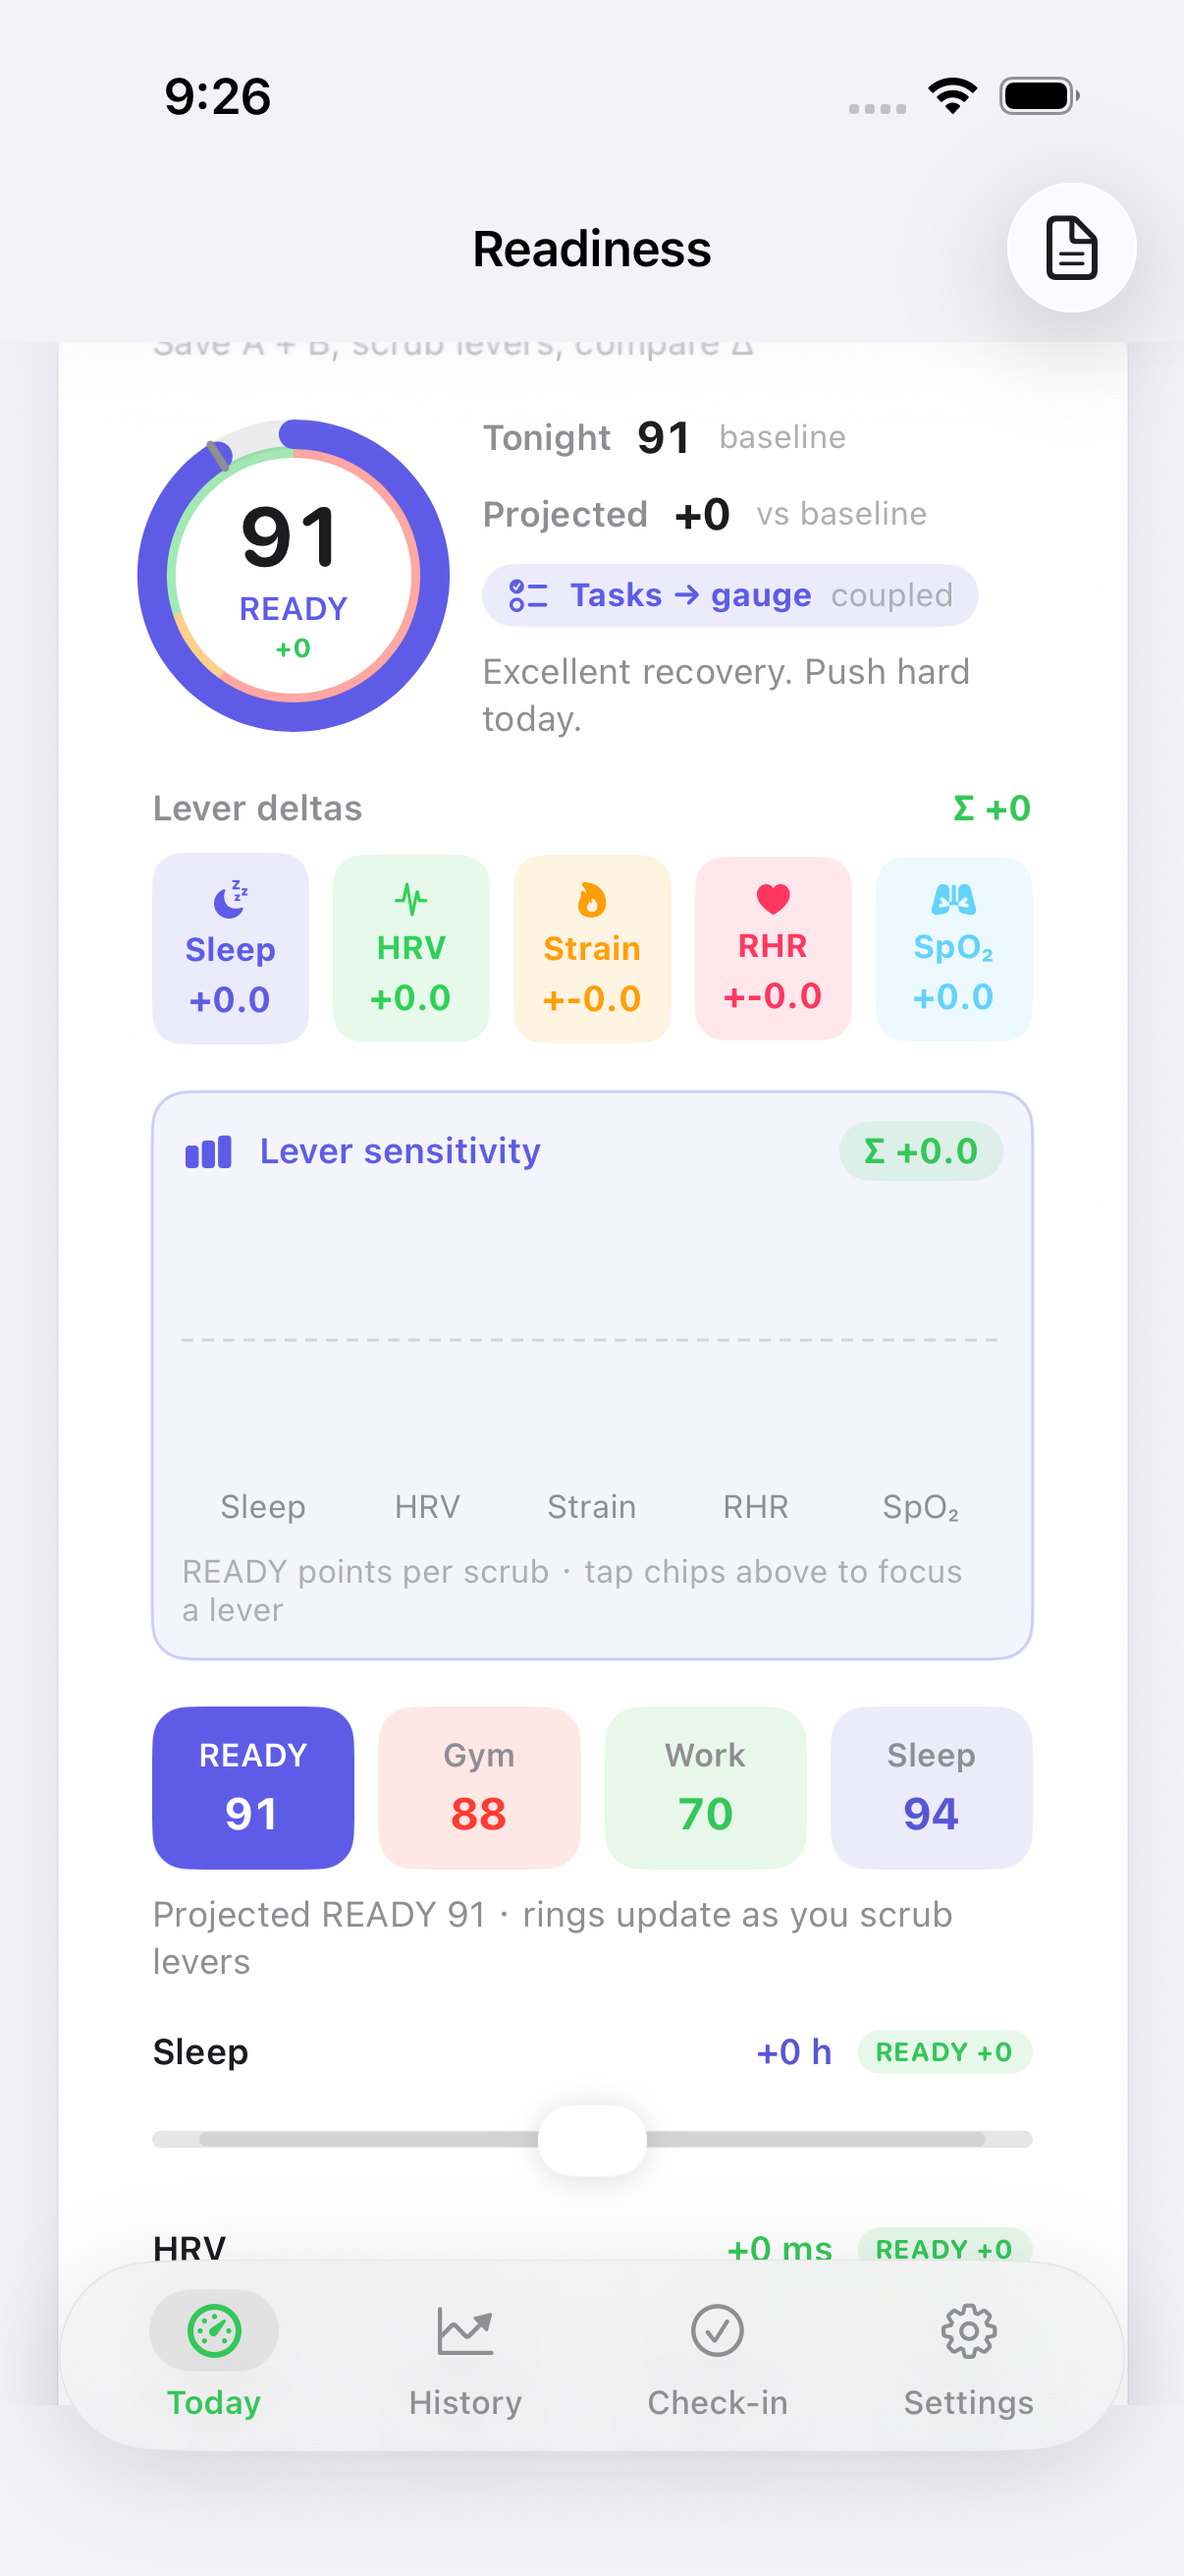
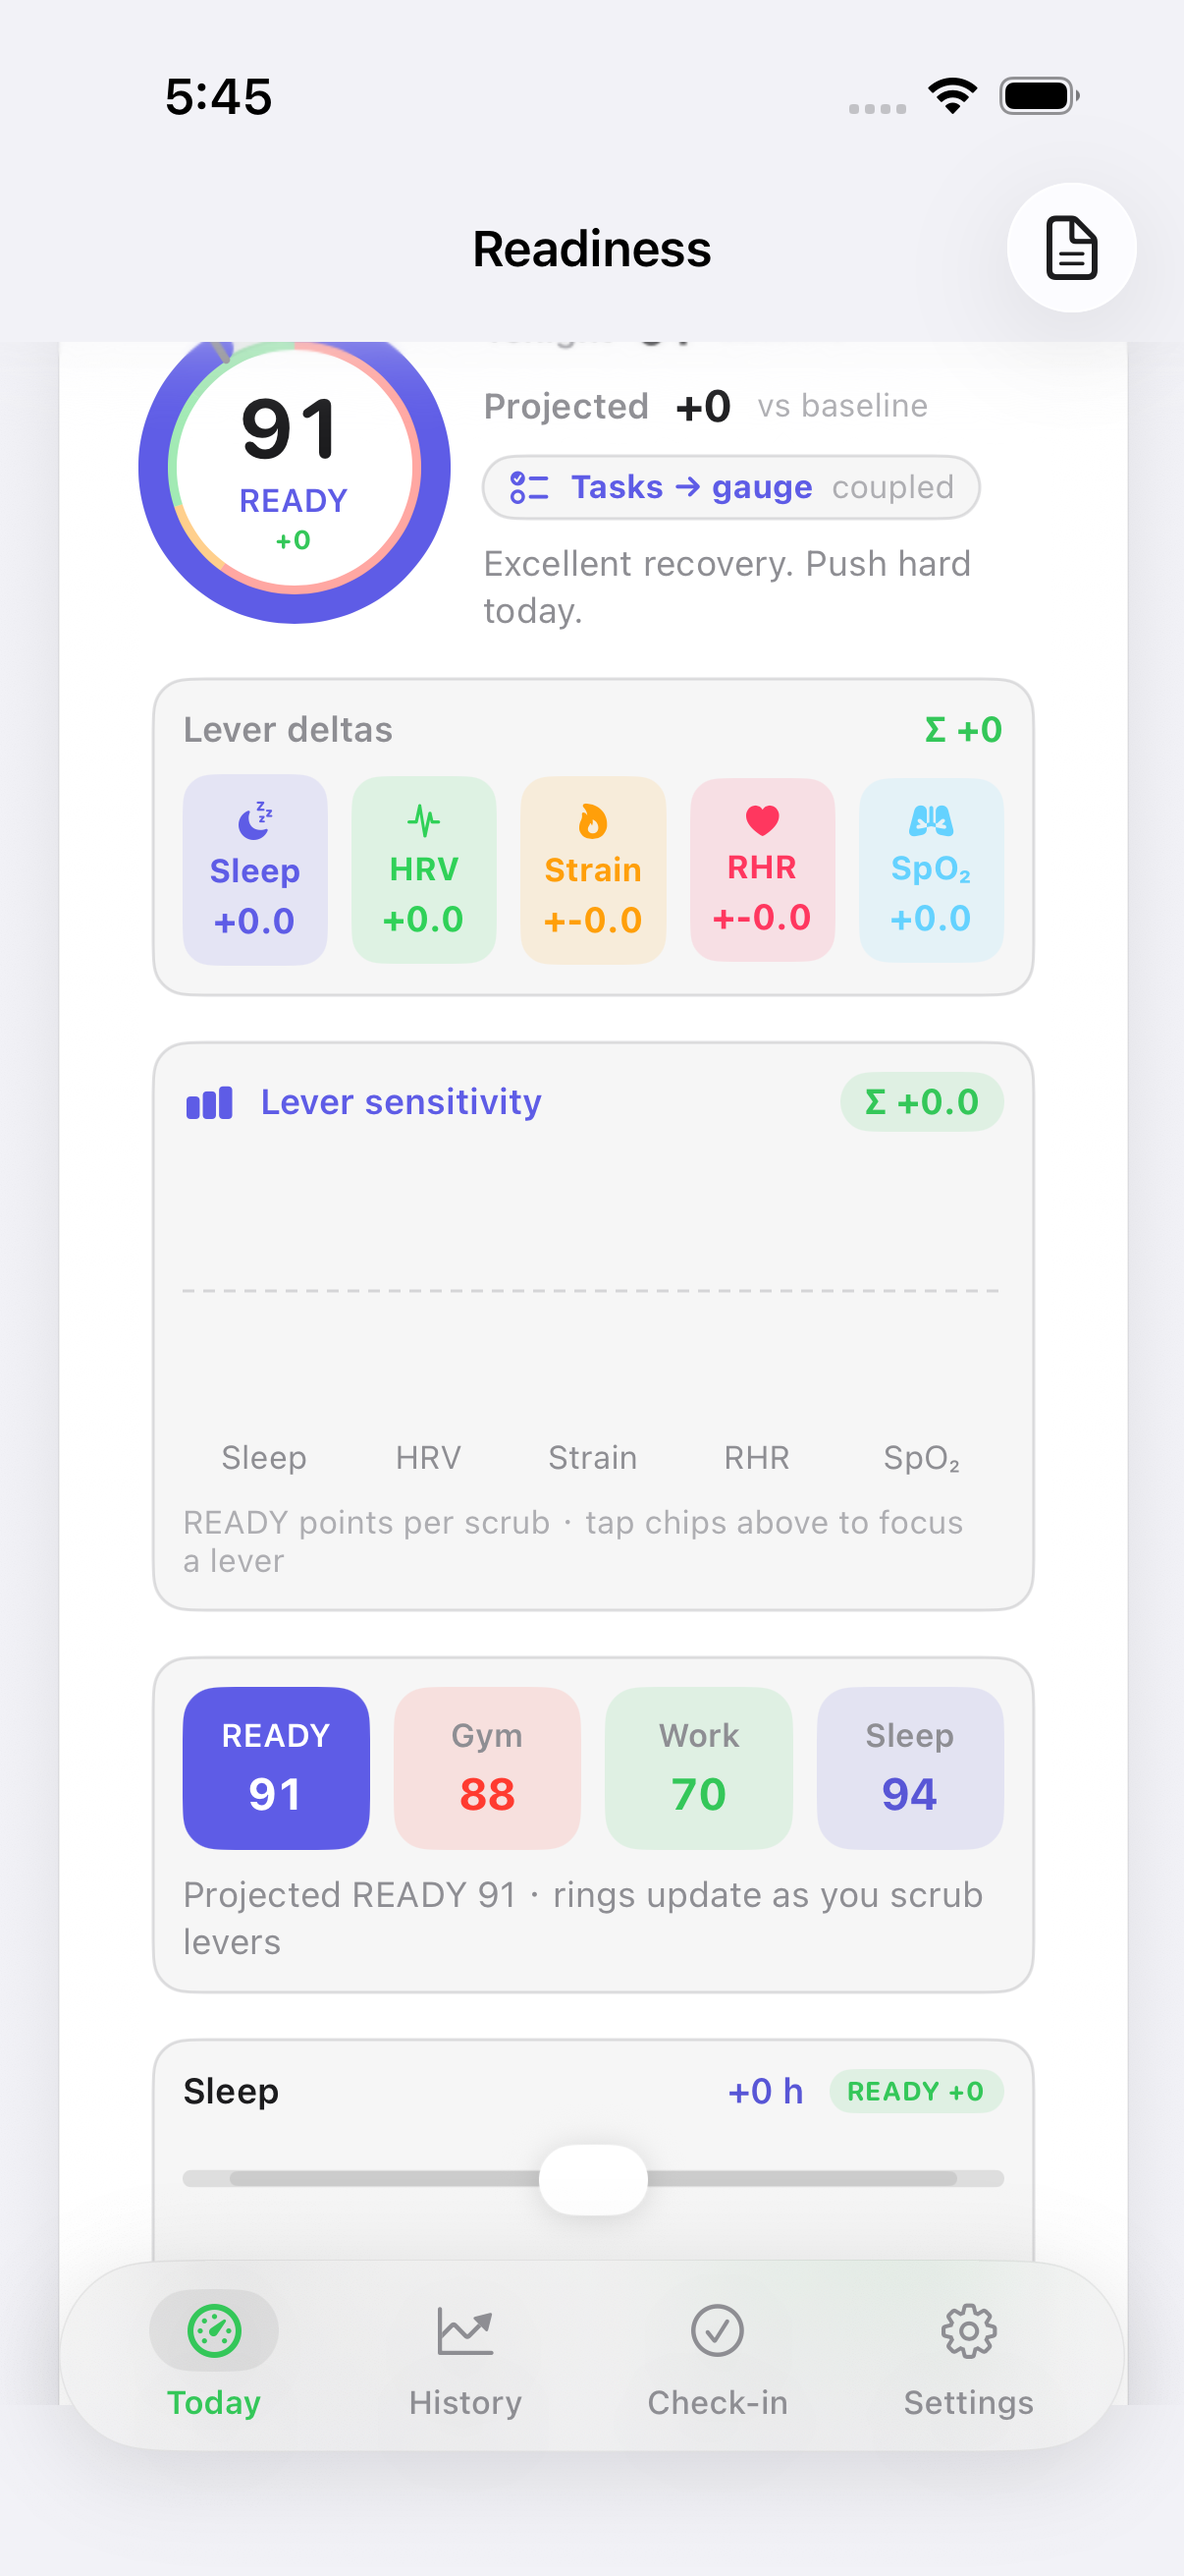
Honest #783: Simulator controls (WHOOP wells) (#813)
Chrome-only restyle of existing sim.load.controls.
Idle (all five levers at 0) ghost/hairline 8/28 secondaryText;
active negative (combined isolated READY Δ < 0) 14/28 strain;
active positive (combined isolated READY Δ > 0) 14/28 optimal;
active mixed (some nonzero levers whose isolated contributions cancel) 14/28 accent.
Slider internals, copy, tints, identifiers, interaction,
and accessibilityIdentifier unchanged.

UITest testReadinessLoadSimulatorSurface passed 778.470s, 0 failures
(observer 790.700s) on iPhone 17 Pro. Proof:
.audit/verify-simulator-controls.png

diff --git a/ReadinessTracker/Views/WhoopFeatures/ReadinessLoadSimulatorCard.swift b/ReadinessTracker/Views/WhoopFeatures/ReadinessLoadSimulatorCard.swift
@@ -986,9 +986,19 @@ struct ReadinessLoadSimulatorCard: View {
         .accessibilityLabel("Projected ring chips")
     }
 
-    /// Honest #718: WHOOP-parity bipolar sliders + live per-lever READY Δ (via `project()` vs all-zero).
+    /// Honest #718 / #783: WHOOP-parity bipolar sliders + live per-lever READY Δ (via `project()` vs all-zero; WHOOP wells; Google Health graphics).
     private var interactiveControls: some View {
-        VStack(spacing: 14) {
+        // Well tone follows combined lever READY Δ vs all-zero (same isolation as
+        // per-slider READY capsules). Idle = all five levers at 0. Mixed =
+        // some nonzero levers whose isolated contributions cancel (combined == 0).
+        let combinedReadyDelta = isolatedReadyDelta(
+            sleep: sleepDelta, hrv: hrvDelta, strain: strainDelta, rhr: rhrDelta, spo2: spo2Delta
+        )
+        let leversAreActive = sleepDelta != 0 || hrvDelta != 0 || strainDelta != 0 || rhrDelta != 0 || spo2Delta != 0
+        let wellTone: Color = leversAreActive
+            ? (combinedReadyDelta < 0 ? Color(hex: "FF375F") : (combinedReadyDelta > 0 ? RTColor.optimal : accent))
+            : RTColor.secondaryText
+        return VStack(spacing: 14) {
             simulatorSlider(
                 title: "Sleep",
                 unit: "h",
@@ -1035,6 +1045,12 @@ struct ReadinessLoadSimulatorCard: View {
                 readyDelta: isolatedReadyDelta(spo2: spo2Delta)
             )
         }
+        .padding(10)
+        .background(wellTone.opacity(leversAreActive ? 0.14 : 0.08), in: RoundedRectangle(cornerRadius: 12, style: .continuous))
+        .overlay(
+            RoundedRectangle(cornerRadius: 12, style: .continuous)
+                .stroke(wellTone.opacity(0.28), lineWidth: 1)
+        )
         .accessibilityIdentifier(SurfaceID.readinessLoadSimulatorControls)
     }
 

diff --git a/ReadinessTracker/Design/Theme.swift b/ReadinessTracker/Design/Theme.swift
@@ -190,7 +190,7 @@ enum SurfaceID {
     static let coachingFeed = "coaching.feed"
     static let readinessLoadSimulatorCard = "sim.load.md.nav"  // unique md.nav / interactive sim
     static let readinessLoadSimulatorGauge = "sim.load.gauge"  // Honest #717
-    static let readinessLoadSimulatorControls = "sim.load.controls"  // Honest #718
+    static let readinessLoadSimulatorControls = "sim.load.controls"  // Honest #718 / #783
     static let readinessLoadSimulatorSpark = "sim.load.spark"
     static let readinessSimulatorTasks = "sim.load.tasks"
     static let readinessSimulatorTaskProgress = "sim.load.tasks.progress"  // Honest #499 / #779

diff --git a/ReadinessTrackerUITests/SurfacesUITests.swift b/ReadinessTrackerUITests/SurfacesUITests.swift
@@ -10413,7 +10413,7 @@ final class SurfacesUITests: XCTestCase {
             if gauge.isHittable { gauge.tap() }
         }
         saveShot("verify-simulator-gauge.png")
-        // Honest #718: WHOOP-parity bipolar sliders + live READY Δ
+        // Honest #718 / #783: WHOOP-parity bipolar sliders + live READY Δ (WHOOP wells)
         let controls = app.descendants(matching: .any)["sim.load.controls"].firstMatch
         XCTAssertTrue(controls.waitForExistence(timeout: 5)
                       || app.descendants(matching: .any)["sim.load.gauge"].firstMatch.exists

diff --git a/.cursor/skills/verify-readiness-tracker/features/readiness-simulator-controls.md b/.cursor/skills/verify-readiness-tracker/features/readiness-simulator-controls.md
@@ -1,0 +1,15 @@
+# Simulator controls (Honest #718 / #783)
+
+## Sub-features
+- WHOOP-parity bipolar sliders (center-zero tick + signed fill) and live per-lever READY Δ via `project()` vs all-zero
+- WHOOP wells on the existing outer slider stack: idle (all five levers at 0) ghost/hairline 8/28 secondaryText; active negative (combined isolated READY Δ < 0) 14/28 strain; active positive (combined isolated READY Δ > 0) 14/28 optimal; active mixed (some nonzero levers whose isolated contributions cancel) 14/28 accent
+- SurfaceID `sim.load.controls`
+
+## How to get to it (user POV)
+Today → Load Simulator card → scroll to the bipolar Sleep / HRV / Strain / RHR / SpO₂ sliders (always visible, below the projection gauge).
+
+## Driving it with the harness
+`testReadinessLoadSimulatorSurface` asserts `sim.load.controls` and `saveShot("verify-simulator-controls.png")`. The test taps the first slider, so the proof PNG is expected to show the active well.
+
+## Gotchas
+This ship restyles the outer well chrome only — slider internals, copy, header/capsule tints, identifiers, interaction, and accessibilityIdentifier are unchanged. Well tone follows `isolatedReadyDelta(sleep:hrv:strain:rhr:spo2:)` combined vs all-zero (same isolation as per-slider READY capsules). Idle = all five levers at 0. Mixed = some nonzero levers whose isolated contributions cancel (combined == 0). Do not invent a new SID.

diff --git a/.audit/decision-log-2026-11-04.md b/.audit/decision-log-2026-11-04.md
@@ -535,4 +535,8 @@
 | 05:28 HKT | #782 Simulator spark tint | prove | UITest suite green /tmp/RT-DD782 (778.202s, 0 failures; observer 791.255s); model=deepseek-flash |
 | 05:28 HKT | #782 Simulator spark tint | land | proof PNG + receipt; SID sim.load.spark.tint; PR squash next; model=deepseek-flash |
 
+| 05:37 HKT | Honest #783 Simulator controls | model=deepseek-flash | restyle existing sim.load.controls after spark tint #782; WHOOP ghost/active wells; mechanical pattern-copy of #781 ring outer wells / combined lever READY Δ vs all-zero applied locally (no separate model iterate needed) | mid-ship |
+| 05:37 HKT | Honest #783 Simulator controls | prove | starting UITest /tmp/RT-DD783; model=deepseek-flash | mid-ship |
 
+| 05:57 HKT | #783 Simulator controls | prove | UITest suite green /tmp/RT-DD783 (778.470s, 0 failures; observer 790.700s); model=deepseek-flash |
+| 05:57 HKT | #783 Simulator controls | land | proof PNG + receipt; SID sim.load.controls; PR squash next; model=deepseek-flash |

diff --git a/.audit/simulator-controls.md b/.audit/simulator-controls.md
@@ -1,5 +1,8 @@
-# Honest #718: Simulator controls
+# Honest #718 / #783: Simulator controls (WHOOP wells)
 
 WHOOP-parity bipolar sliders (center-zero tick + signed fill) and live per-lever READY Δ via `project()` vs all-zero.
+Chrome-only WHOOP wells on the existing outer slider stack.
+Idle (all five levers at 0) = ghost/hairline 8/28 using secondaryText; active negative (combined isolated READY Δ < 0) = 14/28 strain; active positive (combined isolated READY Δ > 0) = 14/28 optimal; active mixed (some nonzero levers whose isolated contributions cancel) = 14/28 accent.
+Slider internals, copy, tints, identifiers, interaction, and accessibilityIdentifier unchanged.
 SurfaceID: `sim.load.controls`
 Proof: `.audit/verify-simulator-controls.png`

diff --git a/.audit/features/simulator-controls.md b/.audit/features/simulator-controls.md
@@ -1,4 +1,6 @@
-# Honest #718: Simulator controls
+# Honest #718 / #783: Simulator controls (WHOOP wells)
 
+WHOOP-parity bipolar sliders + live per-lever READY Δ on Today’s Load Simulator.
+Idle (all five levers at 0) = ghost/hairline 8/28 using secondaryText; active negative = 14/28 strain; active positive = 14/28 optimal; active mixed = 14/28 accent.
 SurfaceID: `sim.load.controls`
-Proof: `.audit/verify-simulator-controls.png`
+Proof: UITest → `.audit/verify-simulator-controls.png`
